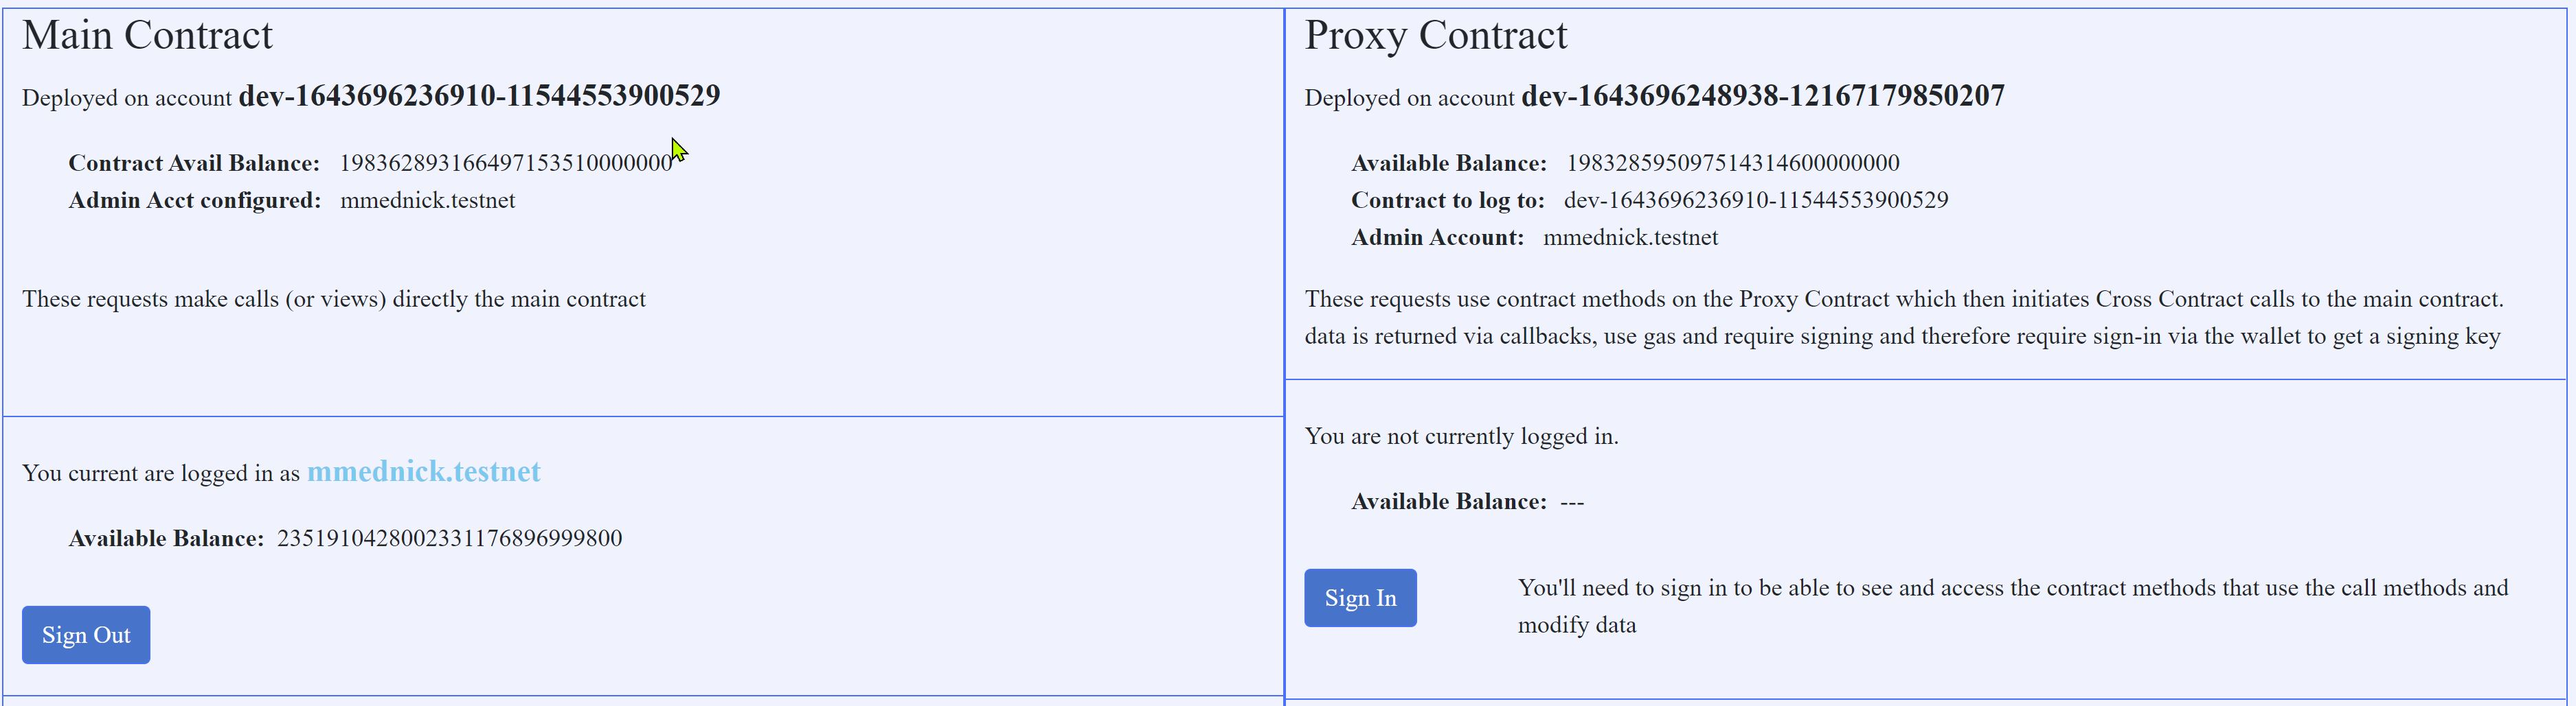
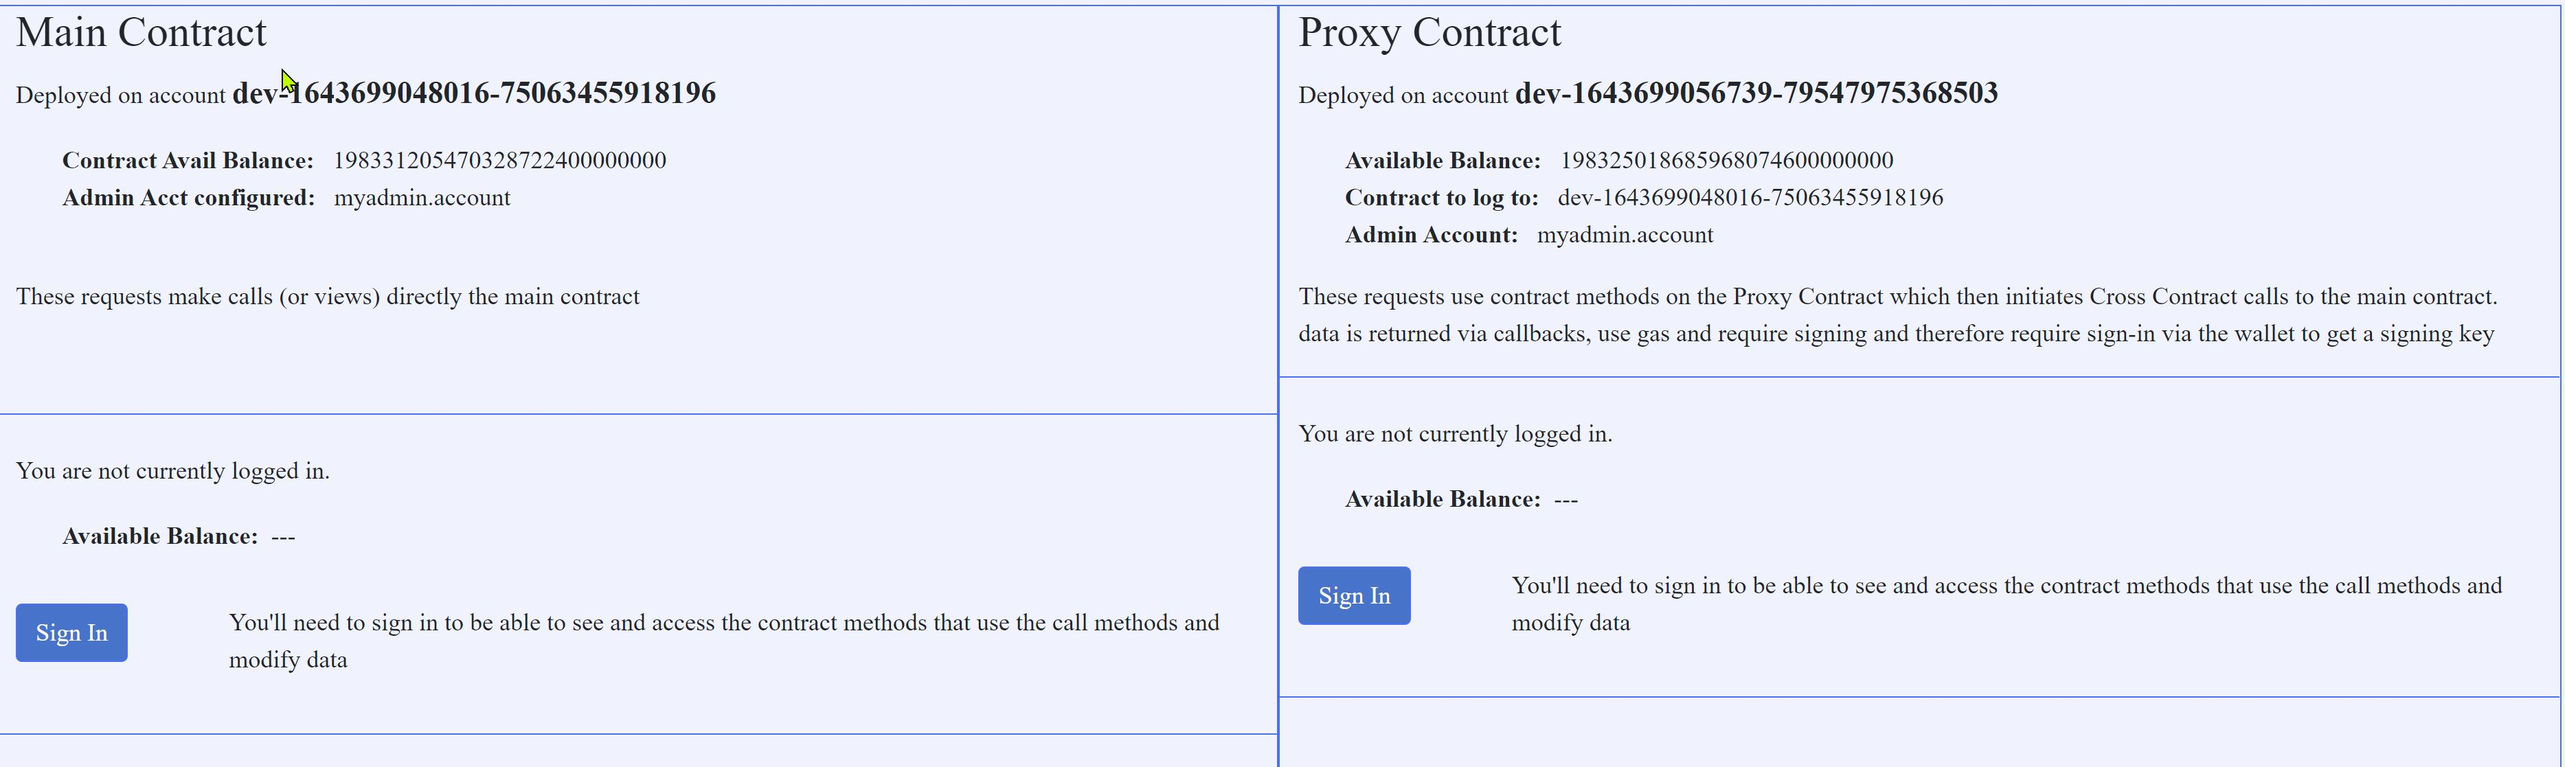
update readme, add update_admin to main contract

diff --git a/src/index.html b/src/index.html
@@ -142,8 +142,8 @@
                 </p>
                 <p>These requests make calls (or views) directly the main contract
                 <br>
-                <br>
-                </p>
+                
+                </pF>
             </div>
             <br>      
             <!-- main login start -->

diff --git a/src/main.js b/src/main.js
@@ -626,6 +626,9 @@ async function setupConnections() {
   // update global shortcuts for contracts
   mainContract = nearConnections.mainacct.contract;
   subAcctContract = nearConnections.subacct.contract;
+
+  console.log("MAIN",mainContract);
+  console.log("SUB",subAcctContract);
 }
 
 

diff --git a/contracts/marvfirst_main/src/lib.rs b/contracts/marvfirst_main/src/lib.rs
@@ -108,6 +108,27 @@ impl LogContract {
 	}
 
 
+    fn  check_for_admin_rights(&self) {
+        let request_acct = env::predecessor_account_id().to_string();
+        log!("Update of log contract requested by {}",&request_acct);
+        let check1 = env::predecessor_account_id() == env::current_account_id();
+        let check2 = env::predecessor_account_id() ==  self.admin;
+        require!(check1 || check2, "Only contract or admin can update configuration");
+
+    }
+
+
+    /// Update admin 
+    ///
+    /// Since initialization is only done one once (unless using 'init(ignore_state)' )
+    pub fn update_admin(&mut self, admin: String) {
+            
+        self.check_for_admin_rights();
+        // require!(env::predecessor_account_id() == self.admin_user,"Admin account method");
+        self.admin = admin.try_into().unwrap();
+    }
+
+
 
     // list_entries 
     pub fn list_entries(&self) -> String {

diff --git a/contracts/marvfirst_sub/src/lib.rs b/contracts/marvfirst_sub/src/lib.rs
@@ -81,6 +81,7 @@ impl CallLoggerContract {
     ///
     /// Since initialization is only done one once (unless using 'init(ignore_state)' )
     pub fn update_admin(&mut self, admin: String) {
+        
         self.check_for_admin_rights();
         // require!(env::predecessor_account_id() == self.admin_user,"Admin account method");
         self.admin_user = admin.try_into().unwrap();
@@ -93,7 +94,7 @@ impl CallLoggerContract {
     pub fn indirect_add_entry(&mut self, timestamp: String, name: String, message: String) {
 		
         let _cross_contract_call = 
-            Promise::new(self.log_contract_id.clone()).function_call(
+             Promise::new(self.log_contract_id.clone()).function_call(
                 "add_entry".to_string(),
                 json!({
                     "timestamp" : timestamp,

diff --git a/README.md b/README.md
@@ -171,7 +171,7 @@ However if you've made changes to the on chain data structure the new contracts 
 
 ## Interacting with the Application
 
-Opening the web pages you will see two column one for the Main contract and one for the Proxy contract.    (TODO - change admin name in contracts for image)
+Opening the web pages you will see two column one for the Main contract and one for the Proxy contract. 
 
 ![image info](.\header_example.jpg)
 
@@ -191,7 +191,7 @@ Note that the information that is displayed in the header (e.g. the admin user) 
 
 After sign in, the options to add a log entry are enabled and an simple entry form (Name and Message) is displayed. 
 
-(ADD IMAGE HERE)
+![image_info](./images/sign_in_example.jpg)
 
 Both contracts have entry forms, but the Proxy version has an additional field allowing Near tokens to be transferred from logged in user to the Main contract.  Transferring is optional.  To not transfer any  tokens leave the amount at 0.  Any amount such as 1,  0.1,  .0001  can be entered either and can represent  NEAR or Million YactoNEAR).
 
